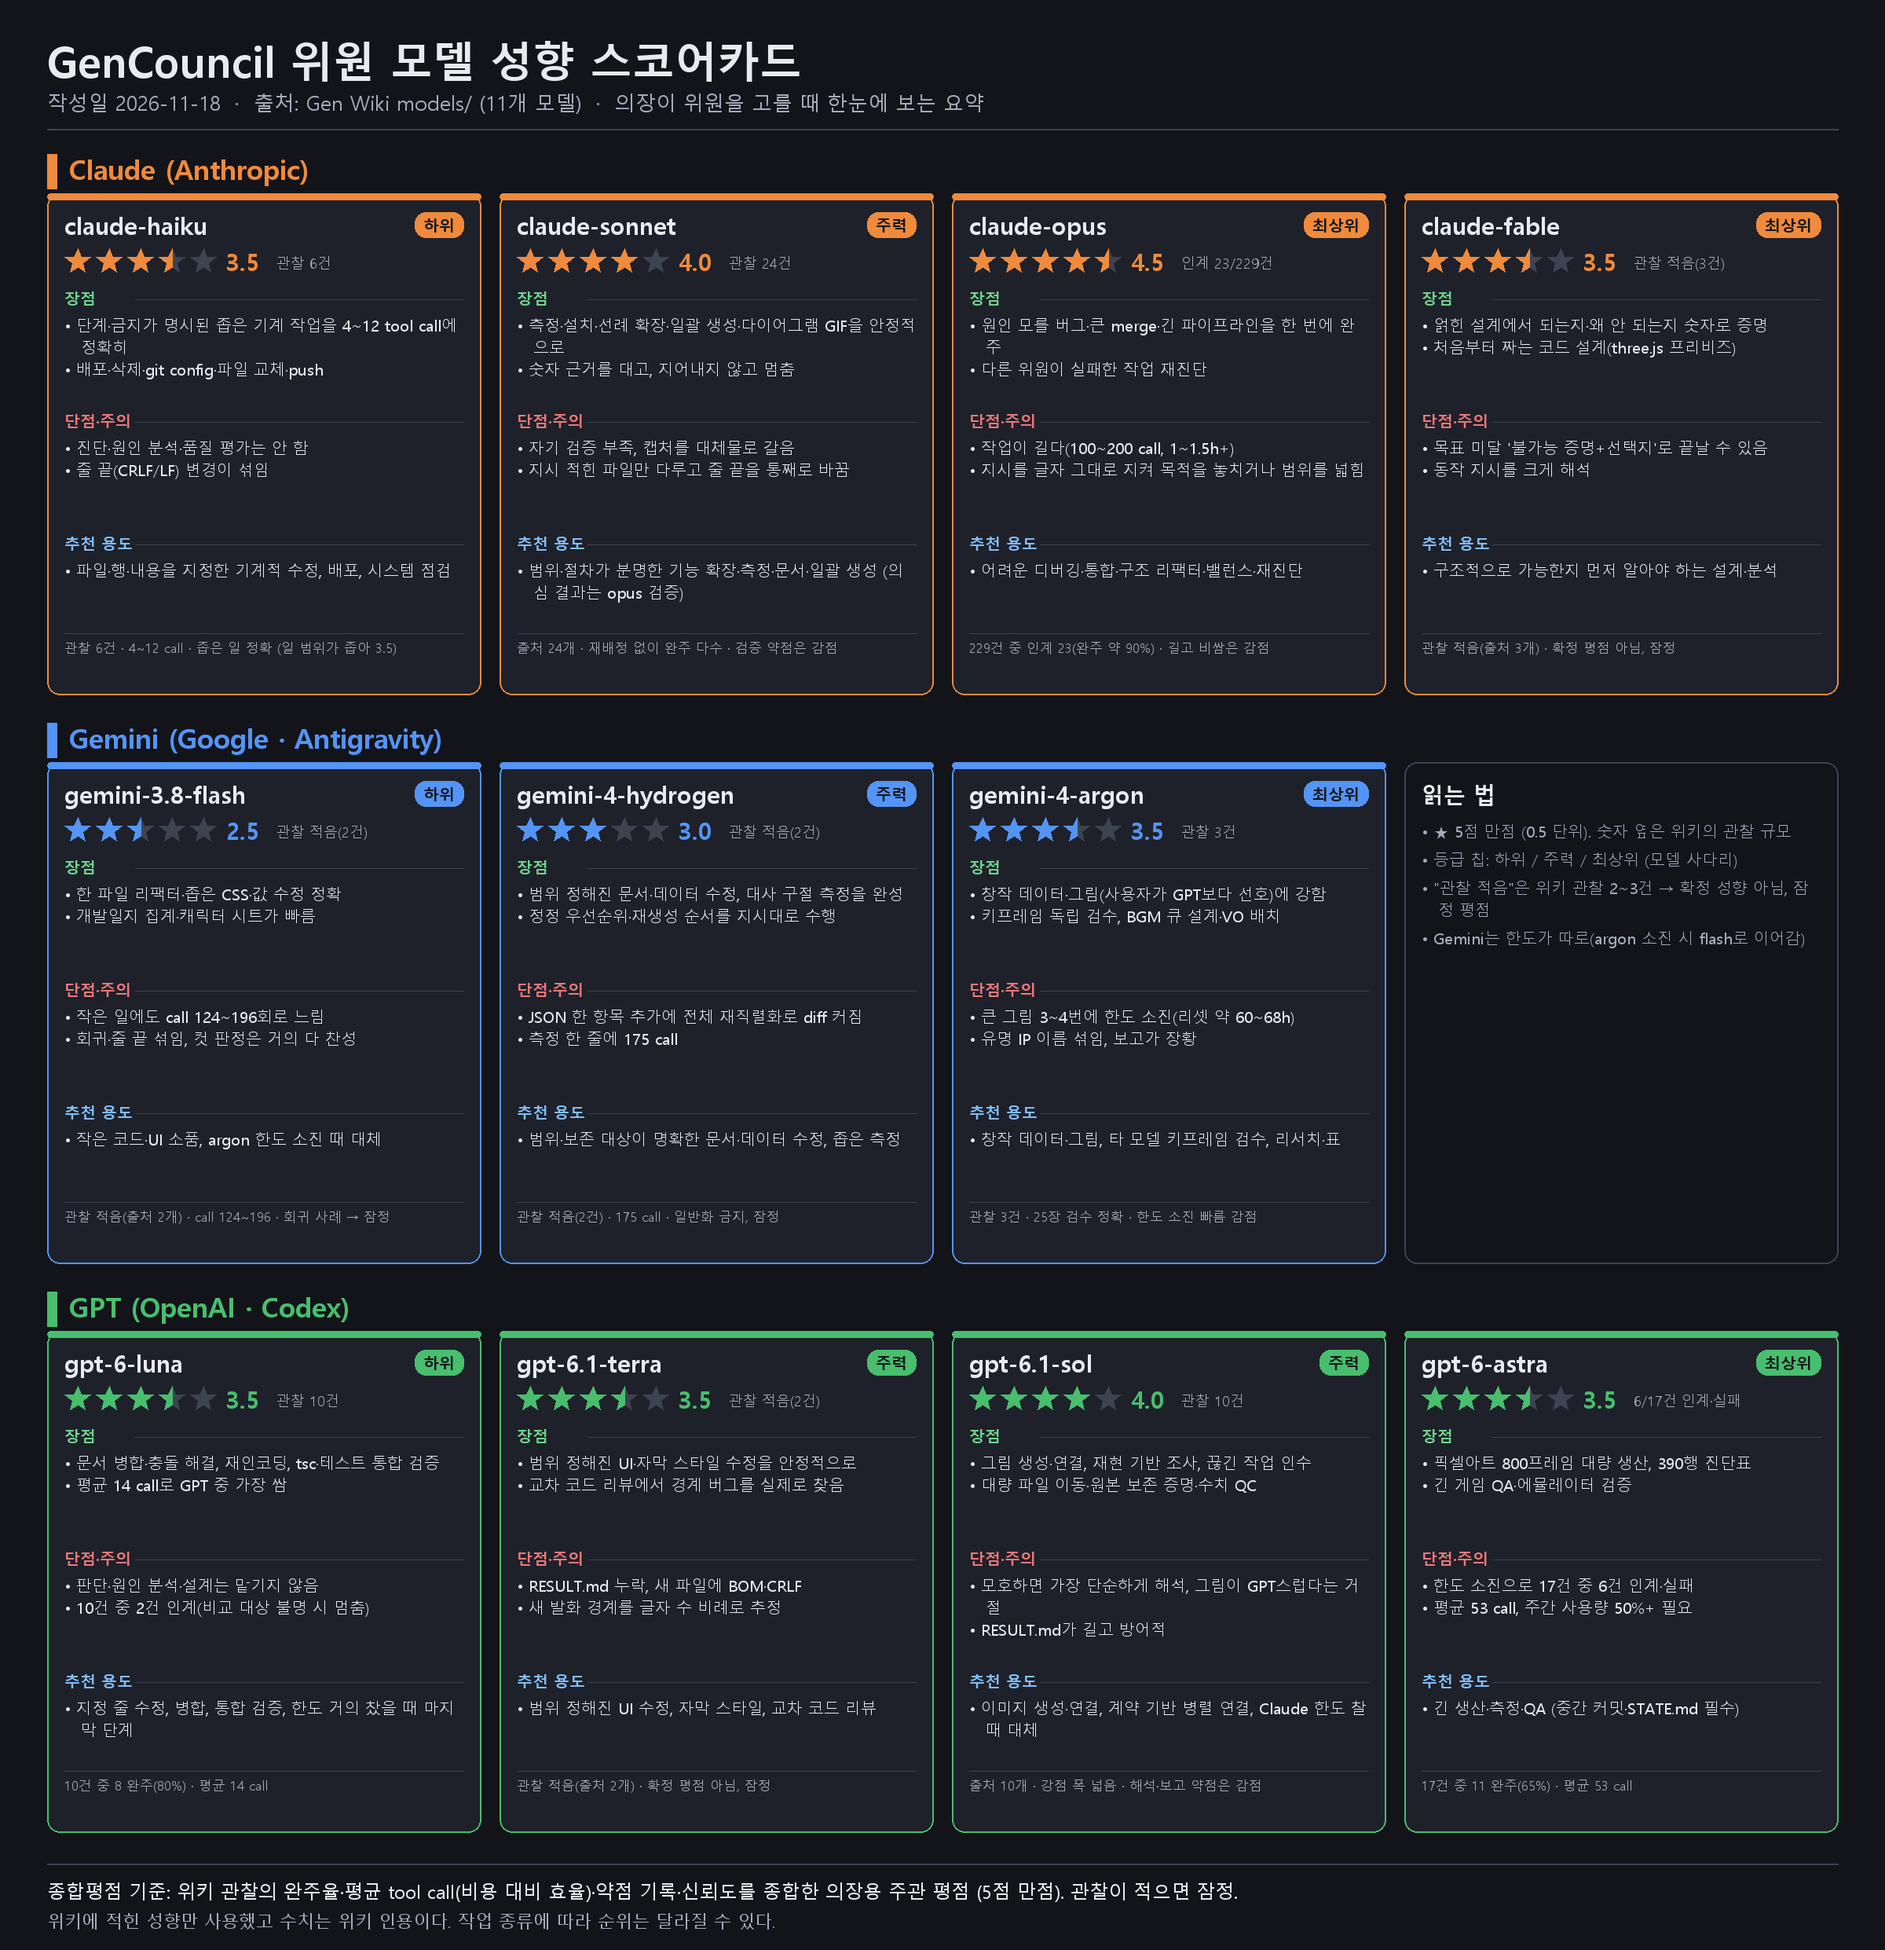
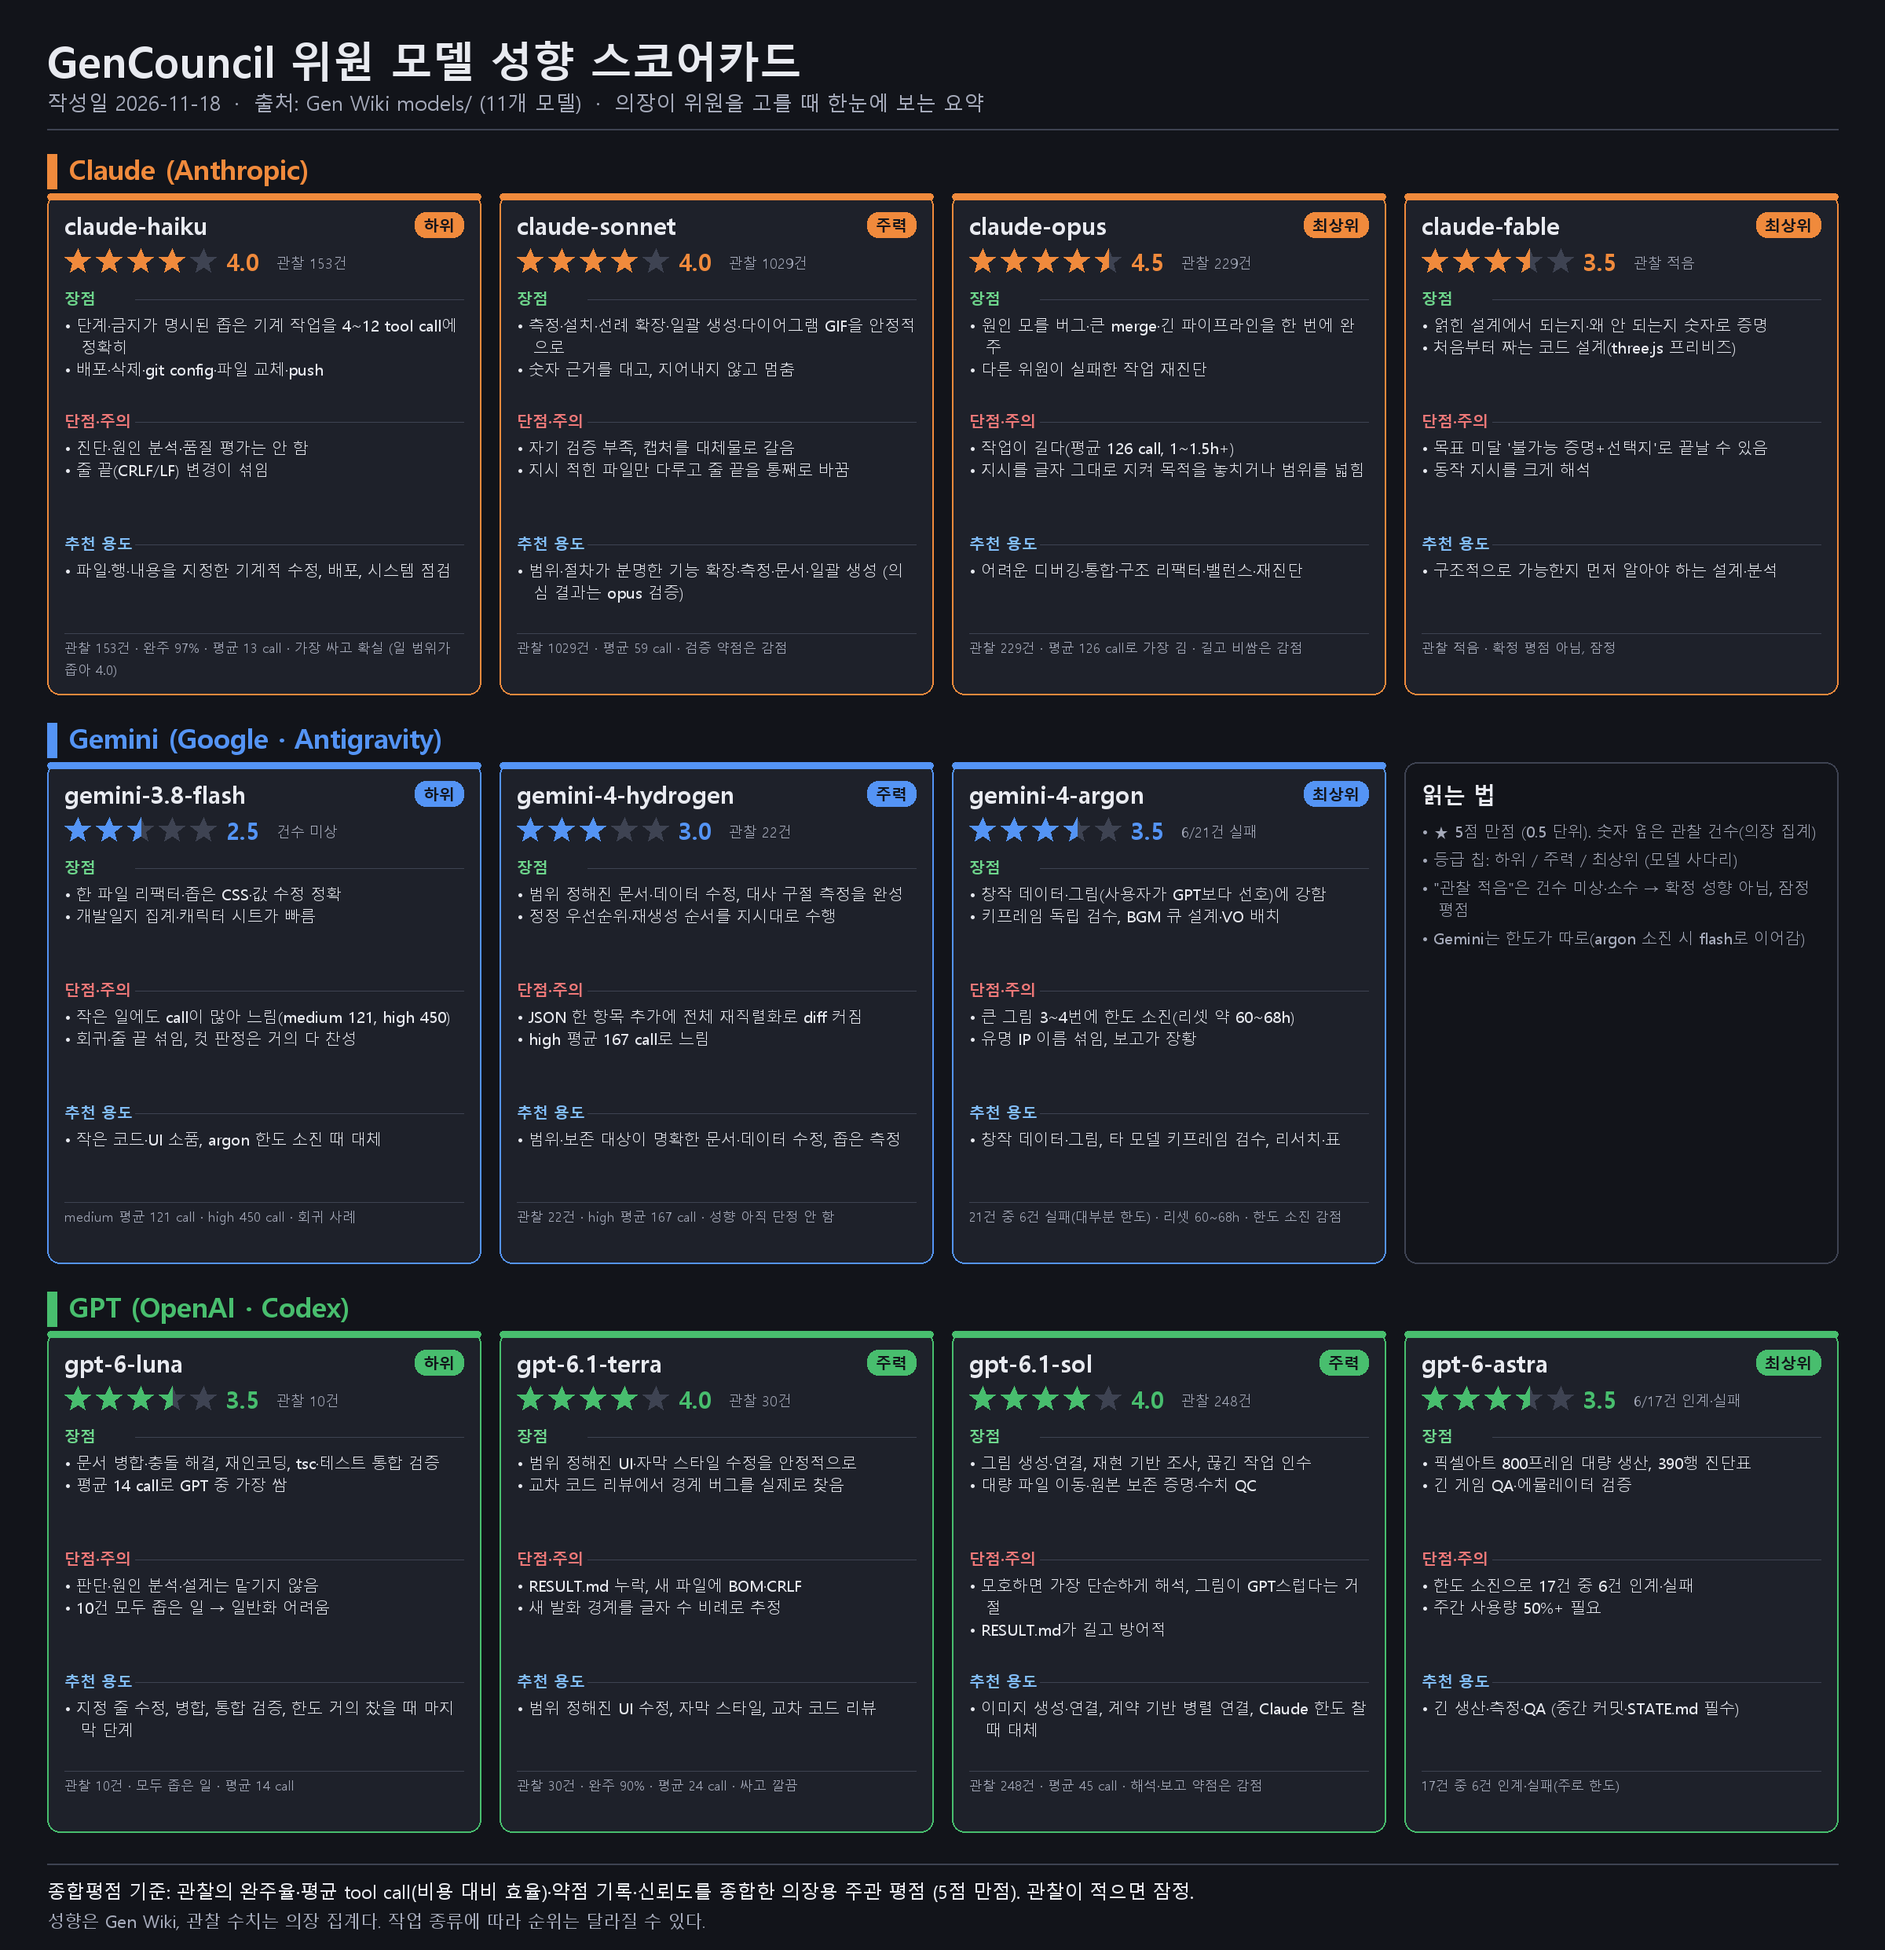
스코어카드 관찰 수치 교정: 의장 집계 건수로 교체, haiku·terra 4.0

Changed region(s): [[0.0625, 0.9617, 0.4688, 0.9927], [0.5312, 0.9617, 0.625, 0.9927]]

diff --git a/docs/diagrams/make_model_scorecard.py b/docs/diagrams/make_model_scorecard.py
@@ -3,7 +3,7 @@
 실행: python docs/diagrams/make_model_scorecard.py
 출력: docs/diagrams/model_scorecard.png (2400px 폭, 정적 PNG 1장)
 
-내용 출처: Gen Wiki models/ 11쪽(작성 시점 2026-11-18). 종합평점은 위키 관찰
+내용 출처: Gen Wiki models/ 11쪽(작성 시점 2026-11-18). 종합평점은 관찰
 (완주율·평균 tool call·약점 기록·관찰 건수)을 근거로 한 의장용 주관 평점이다.
 관찰이 적은 모델은 "관찰 적음"으로 표시한다. 폰트·기법은 make_council_gif.py를 따른다.
 """
@@ -45,65 +45,66 @@ PNAME = {"claude": "Claude (Anthropic)", "gemini": "Gemini (Google · Antigravit
 
 # (provider, 모델명, 등급, 평점, 관찰 표기, 장점[], 단점[], 용도[], 근거)
 M = [
-    ("claude", "claude-haiku", "하위", 3.5, "관찰 6건",
+    ("claude", "claude-haiku", "하위", 4.0, "관찰 153건",
      ["단계·금지가 명시된 좁은 기계 작업을 4~12 tool call에 정확히",
       "배포·삭제·git config·파일 교체·push"],
      ["진단·원인 분석·품질 평가는 안 함", "줄 끝(CRLF/LF) 변경이 섞임"],
      ["파일·행·내용을 지정한 기계적 수정, 배포, 시스템 점검"],
-     "관찰 6건 · 4~12 call · 좁은 일 정확 (일 범위가 좁아 3.5)"),
-    ("claude", "claude-sonnet", "주력", 4.0, "관찰 24건",
+     "관찰 153건 · 완주 97% · 평균 13 call · 가장 싸고 확실 (일 범위가 좁아 4.0)"),
+    ("claude", "claude-sonnet", "주력", 4.0, "관찰 1029건",
      ["측정·설치·선례 확장·일괄 생성·다이어그램 GIF을 안정적으로",
       "숫자 근거를 대고, 지어내지 않고 멈춤"],
      ["자기 검증 부족, 캡처를 대체물로 갈음", "지시 적힌 파일만 다루고 줄 끝을 통째로 바꿈"],
      ["범위·절차가 분명한 기능 확장·측정·문서·일괄 생성 (의심 결과는 opus 검증)"],
-     "출처 24개 · 재배정 없이 완주 다수 · 검증 약점은 감점"),
-    ("claude", "claude-opus", "최상위", 4.5, "인계 23/229건",
+     "관찰 1029건 · 평균 59 call · 검증 약점은 감점"),
+    ("claude", "claude-opus", "최상위", 4.5, "관찰 229건",
      ["원인 모를 버그·큰 merge·긴 파이프라인을 한 번에 완주", "다른 위원이 실패한 작업 재진단"],
-     ["작업이 길다(100~200 call, 1~1.5h+)", "지시를 글자 그대로 지켜 목적을 놓치거나 범위를 넓힘"],
+     ["작업이 길다(평균 126 call, 1~1.5h+)", "지시를 글자 그대로 지켜 목적을 놓치거나 범위를 넓힘"],
      ["어려운 디버깅·통합·구조 리팩터·밸런스·재진단"],
-     "229건 중 인계 23(완주 약 90%) · 길고 비쌈은 감점"),
-    ("claude", "claude-fable", "최상위", 3.5, "관찰 적음(3건)",
+     "관찰 229건 · 평균 126 call로 가장 김 · 길고 비쌈은 감점"),
+    ("claude", "claude-fable", "최상위", 3.5, "관찰 적음",
      ["얽힌 설계에서 되는지·왜 안 되는지 숫자로 증명", "처음부터 짜는 코드 설계(three.js 프리비즈)"],
      ["목표 미달 '불가능 증명+선택지'로 끝날 수 있음", "동작 지시를 크게 해석"],
      ["구조적으로 가능한지 먼저 알아야 하는 설계·분석"],
-     "관찰 적음(출처 3개) · 확정 평점 아님, 잠정"),
-    ("gemini", "gemini-3.8-flash", "하위", 2.5, "관찰 적음(2건)",
+     "관찰 적음 · 확정 평점 아님, 잠정"),
+    ("gemini", "gemini-3.8-flash", "하위", 2.5, "건수 미상",
      ["한 파일 리팩터·좁은 CSS·값 수정 정확", "개발일지 집계·캐릭터 시트가 빠름"],
-     ["작은 일에도 call 124~196회로 느림", "회귀·줄 끝 섞임, 컷 판정은 거의 다 찬성"],
+     ["작은 일에도 call이 많아 느림(medium 121, high 450)", "회귀·줄 끝 섞임, 컷 판정은 거의 다 찬성"],
      ["작은 코드·UI 소품, argon 한도 소진 때 대체"],
-     "관찰 적음(출처 2개) · call 124~196 · 회귀 사례 → 잠정"),
-    ("gemini", "gemini-4-hydrogen", "주력", 3.0, "관찰 적음(2건)",
+     "medium 평균 121 call · high 450 call · 회귀 사례"),
+    ("gemini", "gemini-4-hydrogen", "주력", 3.0, "관찰 22건",
      ["범위 정해진 문서·데이터 수정, 대사 구절 측정을 완성",
       "정정 우선순위·재생성 순서를 지시대로 수행"],
-     ["JSON 한 항목 추가에 전체 재직렬화로 diff 커짐", "측정 한 줄에 175 call"],
+     ["JSON 한 항목 추가에 전체 재직렬화로 diff 커짐", "high 평균 167 call로 느림"],
      ["범위·보존 대상이 명확한 문서·데이터 수정, 좁은 측정"],
-     "관찰 적음(2건) · 175 call · 일반화 금지, 잠정"),
-    ("gemini", "gemini-4-argon", "최상위", 3.5, "관찰 3건",
+     "관찰 22건 · high 평균 167 call · 성향 아직 단정 안 함"),
+    ("gemini", "gemini-4-argon", "최상위", 3.5, "6/21건 실패",
      ["창작 데이터·그림(사용자가 GPT보다 선호)에 강함", "키프레임 독립 검수, BGM 큐 설계·VO 배치"],
      ["큰 그림 3~4번에 한도 소진(리셋 약 60~68h)", "유명 IP 이름 섞임, 보고가 장황"],
      ["창작 데이터·그림, 타 모델 키프레임 검수, 리서치·표"],
-     "관찰 3건 · 25장 검수 정확 · 한도 소진 빠름 감점"),
+     "21건 중 6건 실패(대부분 한도) · 리셋 60~68h · 한도 소진 감점"),
     ("gpt", "gpt-6-luna", "하위", 3.5, "관찰 10건",
      ["문서 병합·충돌 해결, 재인코딩, tsc·테스트 통합 검증", "평균 14 call로 GPT 중 가장 쌈"],
-     ["판단·원인 분석·설계는 맡기지 않음", "10건 중 2건 인계(비교 대상 불명 시 멈춤)"],
+     ["판단·원인 분석·설계는 맡기지 않음", "10건 모두 좁은 일 → 일반화 어려움"],
      ["지정 줄 수정, 병합, 통합 검증, 한도 거의 찼을 때 마지막 단계"],
-     "10건 중 8 완주(80%) · 평균 14 call"),
-    ("gpt", "gpt-6.1-terra", "주력", 3.5, "관찰 적음(2건)",
+     "관찰 10건 · 모두 좁은 일 · 평균 14 call"),
+    ("gpt", "gpt-6.1-terra", "주력", 4.0, "관찰 30건",
      ["범위 정해진 UI·자막 스타일 수정을 안정적으로", "교차 코드 리뷰에서 경계 버그를 실제로 찾음"],
      ["RESULT.md 누락, 새 파일에 BOM·CRLF", "새 발화 경계를 글자 수 비례로 추정"],
      ["범위 정해진 UI 수정, 자막 스타일, 교차 코드 리뷰"],
-     "관찰 적음(출처 2개) · 확정 평점 아님, 잠정"),
-    ("gpt", "gpt-6.1-sol", "주력", 4.0, "관찰 10건",
+     "관찰 30건 · 완주 90% · 평균 24 call · 싸고 깔끔"),
+    ("gpt", "gpt-6.1-sol", "주력", 4.0, "관찰 248건",
      ["그림 생성·연결, 재현 기반 조사, 끊긴 작업 인수", "대량 파일 이동·원본 보존 증명·수치 QC"],
      ["모호하면 가장 단순하게 해석, 그림이 GPT스럽다는 거절", "RESULT.md가 길고 방어적"],
      ["이미지 생성·연결, 계약 기반 병렬 연결, Claude 한도 찰 때 대체"],
-     "출처 10개 · 강점 폭 넓음 · 해석·보고 약점은 감점"),
+     "관찰 248건 · 평균 45 call · 해석·보고 약점은 감점"),
     ("gpt", "gpt-6-astra", "최상위", 3.5, "6/17건 인계·실패",
      ["픽셀아트 800프레임 대량 생산, 390행 진단표", "긴 게임 QA·에뮬레이터 검증"],
-     ["한도 소진으로 17건 중 6건 인계·실패", "평균 53 call, 주간 사용량 50%+ 필요"],
+     ["한도 소진으로 17건 중 6건 인계·실패", "주간 사용량 50%+ 필요"],
      ["긴 생산·측정·QA (중간 커밋·STATE.md 필수)"],
-     "17건 중 11 완주(65%) · 평균 53 call"),
+     "17건 중 6건 인계·실패(주로 한도)"),
 ]
+
 
 PAD = 60
 GAP = 24
@@ -232,9 +233,9 @@ def main():
             x = PAD + 3 * (CW + GAP)
             d.rounded_rectangle((x, y, x + CW, y + CH), radius=16, outline=LINE, width=2)
             d.text((x + IN, y + 22), "읽는 법", font=font(28, True), fill=TEXT)
-            notes = ["★ 5점 만점 (0.5 단위). 숫자 옆은 위키의 관찰 규모",
+            notes = ["★ 5점 만점 (0.5 단위). 숫자 옆은 관찰 건수(의장 집계)",
                      "등급 칩: 하위 / 주력 / 최상위 (모델 사다리)",
-                     "\"관찰 적음\"은 위키 관찰 2~3건 → 확정 성향 아님, 잠정 평점",
+                     "\"관찰 적음\"은 건수 미상·소수 → 확정 성향 아님, 잠정 평점",
                      "Gemini는 한도가 따로(argon 소진 시 flash로 이어감)"]
             yy = y + 74
             for n in notes:
@@ -247,9 +248,9 @@ def main():
 
     d.line((PAD, y + 10, W - PAD, y + 10), fill=LINE, width=2)
     d.text((PAD, y + 28),
-           "종합평점 기준: 위키 관찰의 완주율·평균 tool call(비용 대비 효율)·약점 기록·신뢰도를 종합한 의장용 주관 평점 (5점 만점). 관찰이 적으면 잠정.",
+           "종합평점 기준: 관찰의 완주율·평균 tool call(비용 대비 효율)·약점 기록·신뢰도를 종합한 의장용 주관 평점 (5점 만점). 관찰이 적으면 잠정.",
            font=font(24), fill=TEXT)
-    d.text((PAD, y + 68), "위키에 적힌 성향만 사용했고 수치는 위키 인용이다. 작업 종류에 따라 순위는 달라질 수 있다.",
+    d.text((PAD, y + 68), "성향은 Gen Wiki, 관찰 수치는 의장 집계다. 작업 종류에 따라 순위는 달라질 수 있다.",
            font=font(22), fill=DIM)
 
     img = img.crop((0, 0, W, y + 120))
